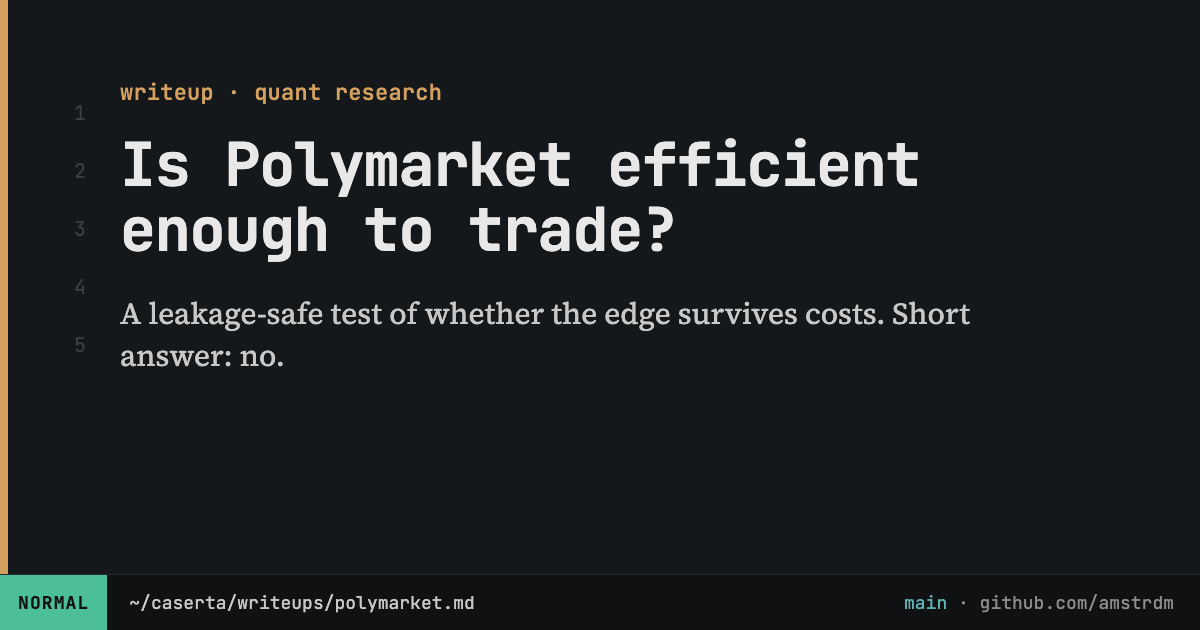
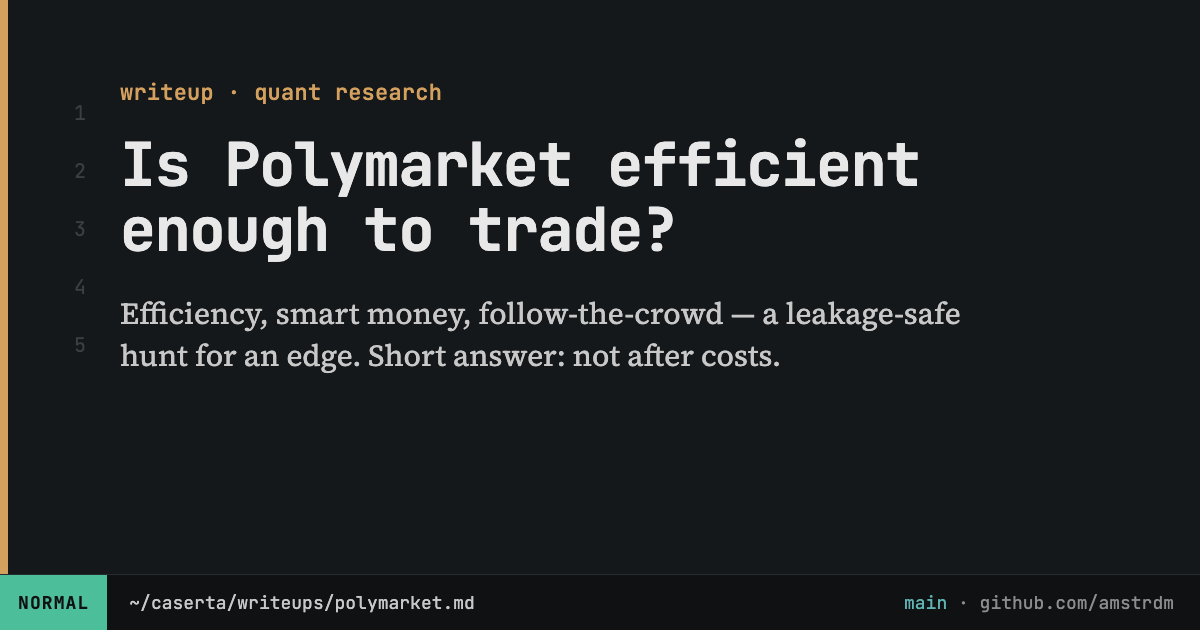
Update Polymarket writeup with the smart-money findings

Changed region(s): [[0.0925, 0.4825, 0.8325, 0.6032]]

diff --git a/src/content/writeups/polymarket.md b/src/content/writeups/polymarket.md
@@ -1,6 +1,6 @@
 ---
 title: Is Polymarket efficient enough to trade?
-subtitle: A leakage-safe test of whether prediction-market prices predict returns — and whether any edge survives costs
+subtitle: A leakage-safe hunt for an edge — through efficiency, smart money, and following the crowd. Every version is real before costs and gone after the spread.
 accent: orange
 date: "2025"
 status: Research — complete
@@ -12,119 +12,185 @@ fullSource:
 order: 2
 ---
 
-The question is simple and the honest answer is a bit anticlimactic, which is
-exactly why it's worth writing down. If a prediction market is efficient, two
-things should hold: its prices should behave like real probabilities, and you
-shouldn't be able to predict its next move from its own trading history. I tested
-both — and built the whole thing so that a *positive* result couldn't just be an
-artifact of look-ahead or of pretending trading is free.
+People clearly make consistent money on Polymarket. So is the market actually
+inefficient in a way you can exploit, or are the winners just the survivors of a
+big coin-flipping contest? I wanted to answer that with data instead of vibes.
 
-The rule I kept coming back to: an edge only counts if it's still there after you
-pay to trade.
+The plan was two-sided. First, is Polymarket efficient at all — because if it is,
+trading it is just gambling and there's no point going further. Second, if there's
+something there, find the "smart money" and see whether you can follow it. The
+short version is that I tried four different ways to find an edge, every one has a
+real signal *before* costs, and every one dies once you pay the spread. The rule I
+kept coming back to: an edge only counts if it survives the toll of actually
+trading.
 
-The full writedown — the whole story, every number, the methodology in detail —
-lives in [WRITEUP.md](https://github.com/amstrdm/polymarket-efficiency/blob/main/WRITEUP.md)
-in the repo. This page is the short version.
+This is the walkthrough. The whole story, every number, and the methodology in
+detail live in [WRITEUP.md](https://github.com/amstrdm/polymarket-efficiency/blob/main/WRITEUP.md)
+in the repo.
 
-## The data
+## The data (this was most of the battle)
 
-On-chain trade history, loaded into a DuckDB / Parquet lake. The original pipeline
-pulled raw order-book fills from a Goldsky subgraph; that source has since died
-(the subgraph is deprecated and Polymarket's trades endpoint now 410s), so the
-published results come from a 208-market sample on Dune Analytics — one outcome
-token per market, hourly bars from mid-2024 to early 2025, about 149k bars.
-
-Two things I keep attached to those numbers. First, volume on Polymarket is
-brutally concentrated: across ~100k markets, the top ~5% carry roughly 80% of the
-volume and the long tail is basically untradeable, so the test only looks at a
-liquid "active universe."
+I need every fill on every market: who traded, how much, at what price, and how the
+market resolved. The original pipeline pulled raw fills from Polymarket's Goldsky
+subgraph — which is now dead (deprecated after their V2 migration), as is the Data
+API `/trades` endpoint (410 Gone). The data the project originally ran on simply
+isn't retrievable from Polymarket's free endpoints anymore, which is its own small
+finding. What saved it was Dune Analytics: decoded on-chain `OrderFilled` events
+plus a market-resolution table, aggregated to hourly bars server-side. The
+efficiency study runs on the top ~208 markets by volume over the 2024 election
+period, about 150k hourly bars.
 
 <figure>
-  <img src="/figures/polymarket-volume.png" alt="Cumulative share of trading volume across markets — a small fraction carries most of the volume" loading="lazy" />
-  <figcaption>Volume concentration across markets. The tradeable universe is a thin slice at the top; most markets never have enough liquidity to matter.</figcaption>
+  <img src="/figures/polymarket-volume.png" alt="Cumulative share of trading volume across markets — a small fraction carries most of it" loading="lazy" />
+  <figcaption>Volume is brutally concentrated — a thin slice of markets carries most of it, and the long tail is untradeable. That's why the test restricts to a liquid universe. Picking that universe by realized volume is itself a look-ahead, which is why the kept side resolves YES 88% of the time; I flag it rather than hide it.</figcaption>
 </figure>
 
-Second, those 208 markets were picked *after the fact* by realized volume, which
-is itself a look-ahead — in the universe selection, not the model — and it biases
-the sample toward decisive, heavily-traded markets (the kept side resolved YES 88%
-of the time). I'd rather say that plainly than let the headline number stand on
-its own.
+## Part 1 — is it efficient?
 
-## Test 1 — are the prices good probabilities?
-
-One snapshot per market, 24 hours before it resolves, so each market is a single
-independent forecast. The per-market Brier score comes out at **0.056**. On its
-own that means nothing, so the question is: better than what?
+**Are the prices good probabilities?** One snapshot per market, 24 hours before it
+resolves, so each market is one independent forecast. The Brier score is 0.056. On
+its own that's meaningless, so: a coin flip scores 0.25 (beating that is easy and
+pointless), but the honest baseline is the base rate — just always predicting the
+average outcome — which scores 0.104. Against that, 0.056 is a skill score of
+**0.46**: the prices cut the base-rate error roughly in half. They're genuinely
+informative, which also means beating them will be hard.
 
 <figure>
   <img src="/figures/polymarket-calibration.png" alt="Calibration curve — observed outcome frequency vs market price, close to the diagonal" loading="lazy" />
-  <figcaption>Reliability curve: market price on the x-axis, realized outcome frequency on the y. Close to the diagonal is good. Prices run a touch above the line (slightly under-confident) but track reality well.</figcaption>
+  <figcaption>Things priced at 70% happen about 70% of the time. Close to the diagonal is good; the prices track reality well.</figcaption>
 </figure>
 
-A coin-flip baseline scores 0.25, and beating that would be easy and meaningless —
-of course most favorites win. The fair comparison is the base rate (just always
-predicting the 88% YES rate), which scores 0.104. Against *that*, 0.056 is a skill
-score of **0.46**: the prices cut the base-rate error roughly in half. They're
-genuinely informative, not just "the favorite usually wins."
+**Can I predict the next move?** A ridge regression on past-only microstructure
+features (cumulative volume, trade count, volatility, spread, age, time to
+resolution) predicting the next 24-hour move. Out-of-sample correlation is ~0.107,
+but I predict a 24h-ahead target every hour, so the observations overlap and the
+naive sample size lies. Clustering the standard errors by market gives **t ≈ 4.7** —
+the signal is real. But real and tradeable are different things. A long/short
+backtest that pays the spread on entry and exit, swept across cost assumptions:
 
-## Test 2 — is the signal real, and is it tradeable?
-
-A ridge regression on past-only microstructure features — cumulative volume, trade
-count, 24-hour volatility, spread, market age, time to resolution — predicting the
-next 24-hour move in log-odds.
-
-**Is it real?** Out-of-sample correlation is about 0.107. But I'm predicting a
-24-hour-ahead target every hour, so neighbouring observations overlap massively
-and the naive sample size (~39k) is a lie. Clustering the standard errors by
-market gives **t ≈ 4.7** across 113 markets — the signal is distinguishable from
-zero.
-
-**Is it tradeable?** A long/short top-decile backtest, paying the estimated spread
-on entry *and* exit, swept from paying nothing to paying 2× the spread:
-
-| cost × spread | mean PnL / period | Sharpe / period | 95% CI |
-|---|---|---|---|
-| 0× (pre-cost) | **+0.028** | **+0.24** | [+0.012, +0.044] |
-| 0.5× | −0.001 | −0.01 | [−0.018, +0.015] |
-| 1× (realistic) | −0.031 | −0.25 | [−0.049, −0.014] |
-| 2× | −0.088 | −0.66 | [−0.108, −0.071] |
+| cost × spread | Sharpe (per rebalance) |
+|---|---|
+| 0× (pre-cost) | **+0.24** |
+| 0.5× | ≈ 0 |
+| 1× (realistic) | −0.25 |
+| 2× | −0.66 |
 
 <figure>
   <img src="/figures/polymarket-equity-curve.png" alt="Cumulative long/short PnL at 0.5x, 1x and 2x the estimated spread" loading="lazy" />
-  <figcaption>Cumulative long/short PnL at different cost assumptions. Pre-cost it climbs; at a realistic full spread it bleeds. The edge is real and smaller than the bid/ask spread.</figcaption>
+  <figcaption>Pre-cost the edge climbs; at a realistic full spread it bleeds. It breaks even around half the spread. The signal is real and smaller than the bid/ask.</figcaption>
 </figure>
 
-Before costs the edge is small but real. It breaks even around *half* the
-estimated spread and loses money at the full spread. So the edge exists on paper
-and it's smaller than what it costs to cross — efficient in the way that actually
-matters if you're the one paying the spread.
+**Isn't that just bid-ask bounce?** A pre-cost Sharpe of +0.24/hour is suspicious —
+last-trade prices ping-pong between bid and ask, which looks predictable but isn't
+capturable. So I re-ran it entering one bar late, and again pricing off the
+midpoint instead of the last trade. Both wash out bounce by construction, and the
+edge survived both (Sharpe 0.24 and 0.26). So it's a genuine directional signal,
+untradeable only because it's smaller than the spread — not a microstructure
+artifact. I'm glad I ran that check; "I suspected it and ruled it out" beats
+asserting a conclusion.
 
-### Ruling out the boring explanation
+So to a **price-taker**, Polymarket is efficient. Clean negative result — and with
+this little machinery, a negative result is more believable than an edge would be.
+But "efficient to a naive price-taker" isn't "nobody makes money." People do. So
+who are they?
 
-A pre-cost Sharpe of +0.24 per hour is high enough to be suspicious, and the usual
-culprit is bid-ask bounce: last-trade prices bounce between bid and ask, which
-*looks* predictable but isn't, because you'd pay the exact spread the bounce comes
-from. Two standard checks, both at zero cost — entering a bar late instead of on
-the signal bar, and pricing off the midpoint instead of the last trade — and the
-edge survives both (Sharpe 0.24 and 0.26). So it's a genuine directional signal,
-not a microstructure artifact. It stays untradeable only because it's smaller than
-the spread.
+## Part 2 — smart money: skill or luck?
 
-## Why it's built the way it is
+With thousands of traders and binary outcomes, plenty look like geniuses by luck.
+The only honest test is out of sample: rank wallets by profit in an earlier period
+(A), see if it predicts a later period (B). I took the 41,500 wallets active in
+both.
 
-Most of the effort went into not fooling myself:
+As a group they're net profitable (+$17M in A, +$14M in B) — they take money off
+the casuals. But individually, persistence is almost nothing: the rank correlation
+between a wallet's period-A and period-B return is ~0.02. If you were profitable in
+A, you're profitable in B 48% of the time — versus a 44% base rate. So you can't
+just copy whoever was green last month; most of them were lucky.
 
-- Features are **past-only** — cumulative-so-far and trailing windows, nothing
-  that peeks forward.
-- The train/test split is **by time**, with a horizon-sized gap at the cutoff so
-  the test set can't see into training.
-- Trades that would be **held across resolution are dropped.**
-- The spread is a soft proxy (the high−low of each hourly bar), so instead of
-  betting on one cost number I **swept the cost**. If an apparent edge only lives
-  at half the spread and dies at the real one, it was never an edge.
+<figure>
+  <img src="/figures/polymarket-persistence.png" alt="Median period-B ROI by period-A performance decile — noise around zero" loading="lazy" />
+  <figcaption>Out-of-sample return by how profitable you were before. If past profit predicted future profit this would slope up; instead it's noise around zero. Even the top decile is slightly negative.</figcaption>
+</figure>
 
-## Where it lands
+The *extreme* tail is different, though. The top 100 wallets by period-A profit are
+66% profitable in B (vs 44% base); strictly-defined persistent winners are about 5%
+of the cohort and put up a +3.7% median return. So a skilled elite genuinely
+exists — it's just the tail, not "anyone who won recently."
 
-A real 24-hour signal that's unprofitable after realistic costs, over prices that
-are already well-calibrated. That's a duller headline than "I found an edge," and
-a much more trustworthy one.
+What do they do? My guess was market-makers earning the spread that kills the
+price-taker. I checked directly: `OrderFilled` tells you who was the maker (resting
+liquidity) and who was the taker (crossing the spread). The winners' maker-rate is
+**0.17** — they're the *taker* 83% of the time. The opposite of market-makers. So
+their edge is **directional and informational**: they pay the spread to express a
+view and are right often enough to overcome it. That reconciles with Part 1 instead
+of breaking it — the market's efficient against a dumb signal, and a skilled
+minority beats it on actual information.
+
+## Part 3 — follow the group, then?
+
+Individuals don't persist, but the group reliably makes money — so why not mirror
+the smart group's consensus instead of picking a member? I defined the smart group
+on period-A data only, then in period B looked at their net position 48 hours
+before each market resolved, and asked: does it predict the outcome *beyond the
+price*, and can you trade it after costs?
+
+Clean no. Following their net flow made +0.38% per trade before costs (basically
+zero, and negative once you pay even a one-cent half-spread). And in a logistic
+regression of the outcome on price and smart-flow direction, the price is hugely
+significant and the smart-flow term is **not** (p = 0.36). Once you know the price,
+which way the smart money leaned tells you nothing extra — the price already ate
+their information. They're aggressive takers who move the price *as* they trade, so
+by the time their position is visible on-chain, you're a latecomer paying the
+spread.
+
+## Part 4 — the one place it almost worked
+
+There's a hole in that argument: it assumes the informed traders *move* the price.
+What about someone consistently right who trades *small*? Their order doesn't move
+anything, so their information wouldn't be impounded yet — and it could leak in
+slowly. (Whales also split into many wallets to hide, so some "small" accounts are
+whales trading quietly.) I split the smart traders into **big winners** (the
+price-movers) and a **small-but-skilled** cohort (tiny size, high return-on-capital),
+and checked whether each predicts the outcome beyond the price, 7 days out and 1
+day out.
+
+Big-winner flow added nothing at either point. But small-skilled flow *did* add
+signal — but only 7 days out (p ≈ 0.02), gone by 1 day out. The price slowly
+absorbs it over the final week. Following that 7-day lean to resolution made +4.2%
+per trade gross, and **+3.2% after a one-cent half-spread** — an edge that clears a
+realistic cost. The only thing in the whole project that looked tradeable.
+
+Which is exactly when you should distrust yourself: one period pair, one of four
+combinations landing significant, a one-sided edge. So I built a proper
+**walk-forward backtest** — six windows from Nov 2024 to Oct 2025, each defining the
+cohort on the prior four months and trading the next two after costs.
+
+<figure>
+  <img src="/figures/polymarket-walkforward.png" alt="Walk-forward equity curve — small-skilled flat near zero, big-winners control bleeding to -300" loading="lazy" />
+  <figcaption>Following small-skilled flow (green) vs the big-winner control (gray), after a one-cent spread. Nearly all the small-cohort profit comes from the first window — the one I found the effect on — then it goes flat. Across all six it's break-even. But the control bleeds to −300: small, non-price-moving flow really does carry more information than whale flow.</figcaption>
+</figure>
+
+So the exciting number was mostly the discovery window flattering me — which is the
+whole reason you walk a result forward. But one piece is robust and I think it's the
+real takeaway: the small cohort beats the whale control enormously. The mechanism is
+real — quiet, non-price-moving flow carries information that whale flow doesn't,
+because the whales' is already in the price. It just isn't enough to clear the
+spread. Same lesson as everywhere else: the gross signal is real, the spread eats
+it.
+
+## The bottom line
+
+Polymarket is efficient in the way that matters to a normal trader. You can't beat
+it with a simple signal, you can't copy last month's winners, and you can't follow
+the whales — by the time their move is visible, the price has already absorbed it.
+It's not efficient in the strong sense: a small, aggressive, informed minority
+genuinely extracts money from the crowd, and they're a huge share of volume. Their
+edge is information, not a trick and not liquidity provision (I checked).
+
+Every "follow something" idea fails for the same satisfying reason: for information
+that has already moved the price, the price is a sufficient statistic, and the
+spread is the toll for arriving after. The one crack — quiet informed flow a week
+early — has a real gross edge but washes out to break-even after costs. The people
+who make money are the ones putting information *into* the price. There doesn't seem
+to be a free lunch for the rest of us reading it back out — which is, honestly, the
+answer I should have expected.
